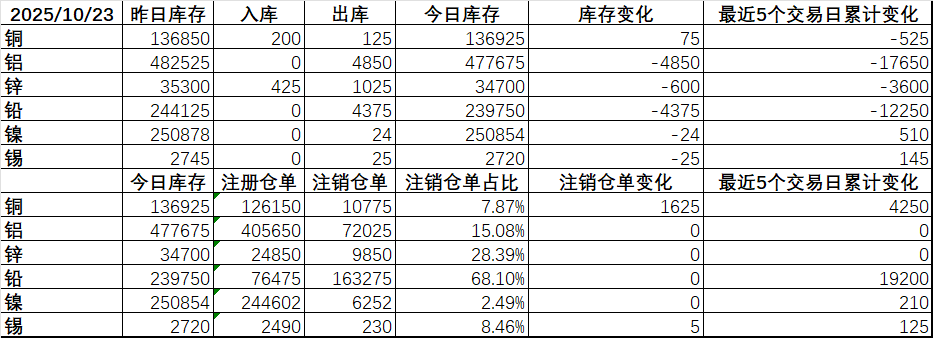
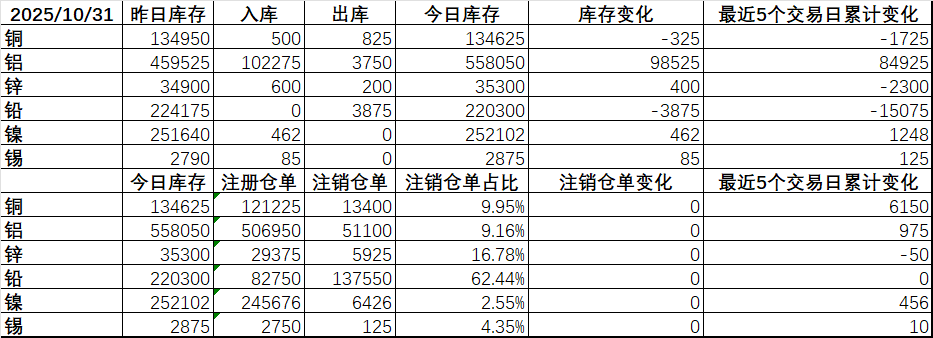
DESKTOP-SUCDRQ5 2025-11-3:2:11:49

diff --git a/锌分析20251102.md b/锌分析20251102.md
@@ -1,19 +1,17 @@
 ## 总结
 
 
-- 策略：<font color = red>做空LME3050-3100建仓，目标2800以内。加工费（**内贸持续下降**，**外贸本周有所下调**）但冶炼利润足够，近几周比值重新回到前低近端接近交仓，远月盘面比前低高200rmb，LME继续挤仓但12合约集中大空头有所减仓，国内据了解已经有1wt出口排单，海外冶炼边际复产但LME低库存有望解决，**目前避免左侧交易**。</font>年内低点看到$2500以内，内盘20000以内。
+- 策略：<font color = red>做空LME3050-3100建仓，目标2800以内。加工费（**内贸持续下降**，**外贸本周有所下调**）但冶炼利润足够（理论测算+1900每吨，本周利润仅走差200，进口矿利润有所修复），LME继续挤仓但12合约集中大空头有所减仓，国内据了解已经有1wt出口排单，本周看到LME少量交仓开始体现，中期看海外冶炼边际复产LME低库存有望解决，**目前避免仓位过大，等待LME结构回平后加仓**。</font>年内低点看到$2500以内，内盘20000以内。
 - 主要矛盾：目前加工费进入盘整阶段，目前矿过剩传导到锭子过剩，现阶段港口锌精矿库存高于往年同期，冶炼厂原料库存也已经偏高，国内库存开始逆季节性累库：**考虑到绝对价格和加工费相关性最强（从精矿库存看加工费还有1000-1500上行空间？未必，目前副产品收益已经替代加工费成为收益来源），海外加工费120美金开始有冶炼复产利润驱动。**根据项目计划明年锌矿增产50w以上，全球消费持平。
 
 - - **国内加工费出现边际回落，目前国产TC最高3400到厂，3200附近是主流成交区间，2000加工费在300硫酸下（具备较强综合回收能力的大厂）现金流利润打平，小厂3000打平，因此目前加工费仅在锌价快速下跌时期冶炼产量扰动概率大，震荡下行期间扰动小。产量从25年5月份之后开始同比开始转正（核心关注国内库存绝对水平达到去年同期水平的时间点，预计是八月底，已经兑现）。
 
-
-- 本周主要逻辑变化：中期策略维持不变，<font color = red>国内周度库存季节性-1k去库弱于季节性，但LME托克挤仓未结束，挤仓要结束需看到国内实际出口交仓。</font>目前锌精矿港口库存维持高位，外贸加工费本周第一周下调$10，但国产加工费-150至3250，目前外贸矿相较内贸高￥1000。
-- 
+ 
 - 周度数据更新：<font color = red>**本周去库-1k，去库弱于季节性，且有万吨级别出口；LME库存-3.6k，其中有425吨入库，注销仓单不变**</font>
-- - **锌精矿港口库存环比-3.7w至27.7w，绝对库存位于同期最高位区间，连续四周降库意味着检修后复产**。
+- - **锌精矿港口库存环比-2.2w至24.8w，同比+9w，连续降库意味着检修后复产**。
 - - 海关数据显示1-9月进口锌精矿来源国：俄罗斯和刚果均有流入，新项目兑现增量：六月锌精矿进口环比下降明显，但是考虑到7月港口库存增加，预计是进口节奏问题。
-- - **SMM国产TC 下调十一月（月度）-650至3000；<font color = red>SMM周度tc-150至3250；SMM进口TC-8.5至110.25。**</font>
-- - LME锌库存-3.6k，新增注销仓单+0k，LME11 12合约有集中大空头。
+- - **SMM国产TC 下调十一月（月度）-650至3000；<font color = red>SMM周度tc-400至2850；SMM进口TC-7至103。**</font>
+- - LME锌库存-2.3k，新增注销仓单+0k，**本周看到少量交仓体现**。
 - - **镀锌板卷开工率周环比+0.3%至63.6%，但成品库存继续增**
 
 - - 消息面：**出口量级上万：紫金5k，南方2k，中金岭南2k，豫光1k；火烧云冶炼出产慢于预期，预计11月底出产**；路透报道托克往美国发运锌锭20k。；万洋7月9k，8月15k-20k，9月20k；云铜已经爬产完。
